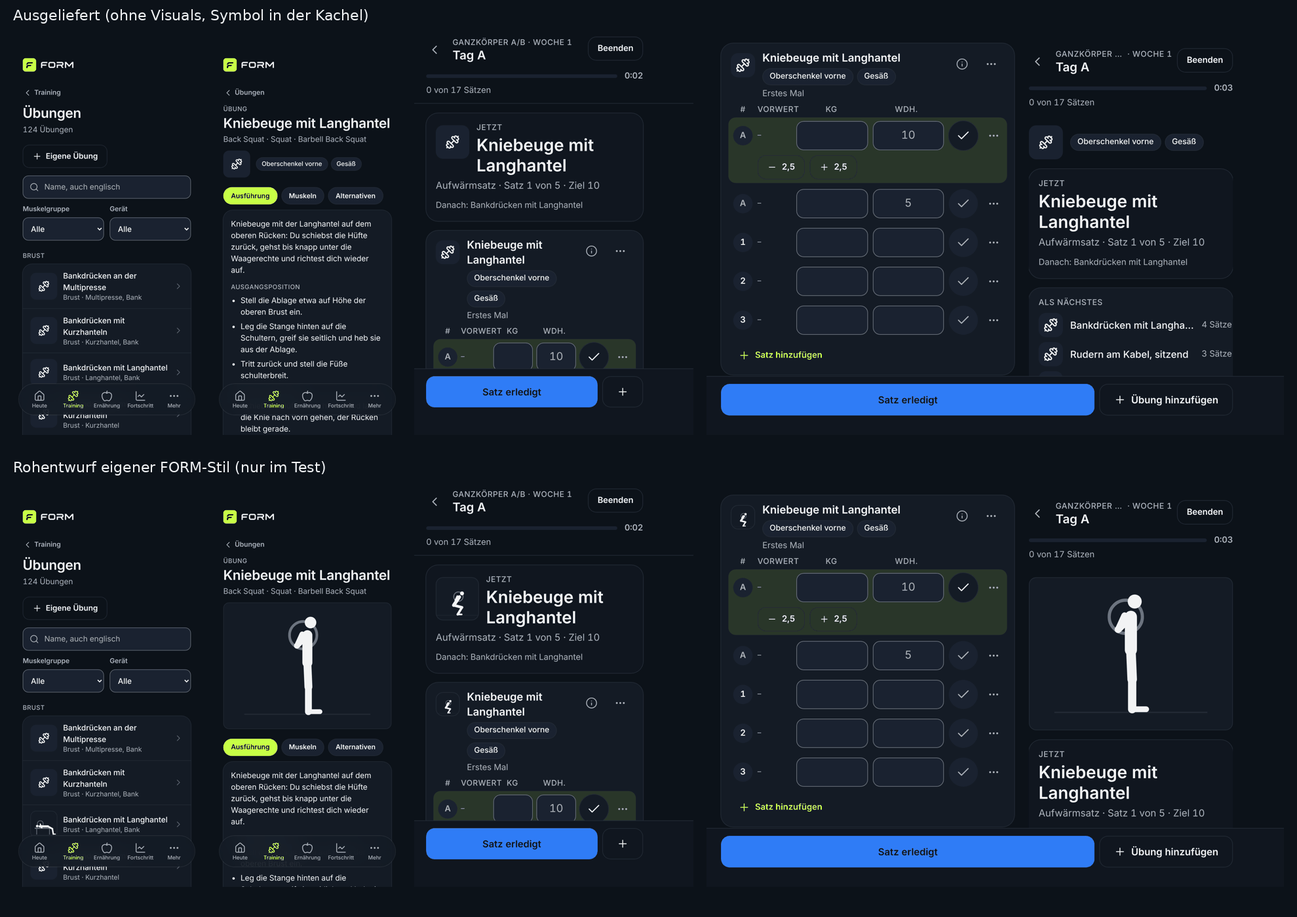
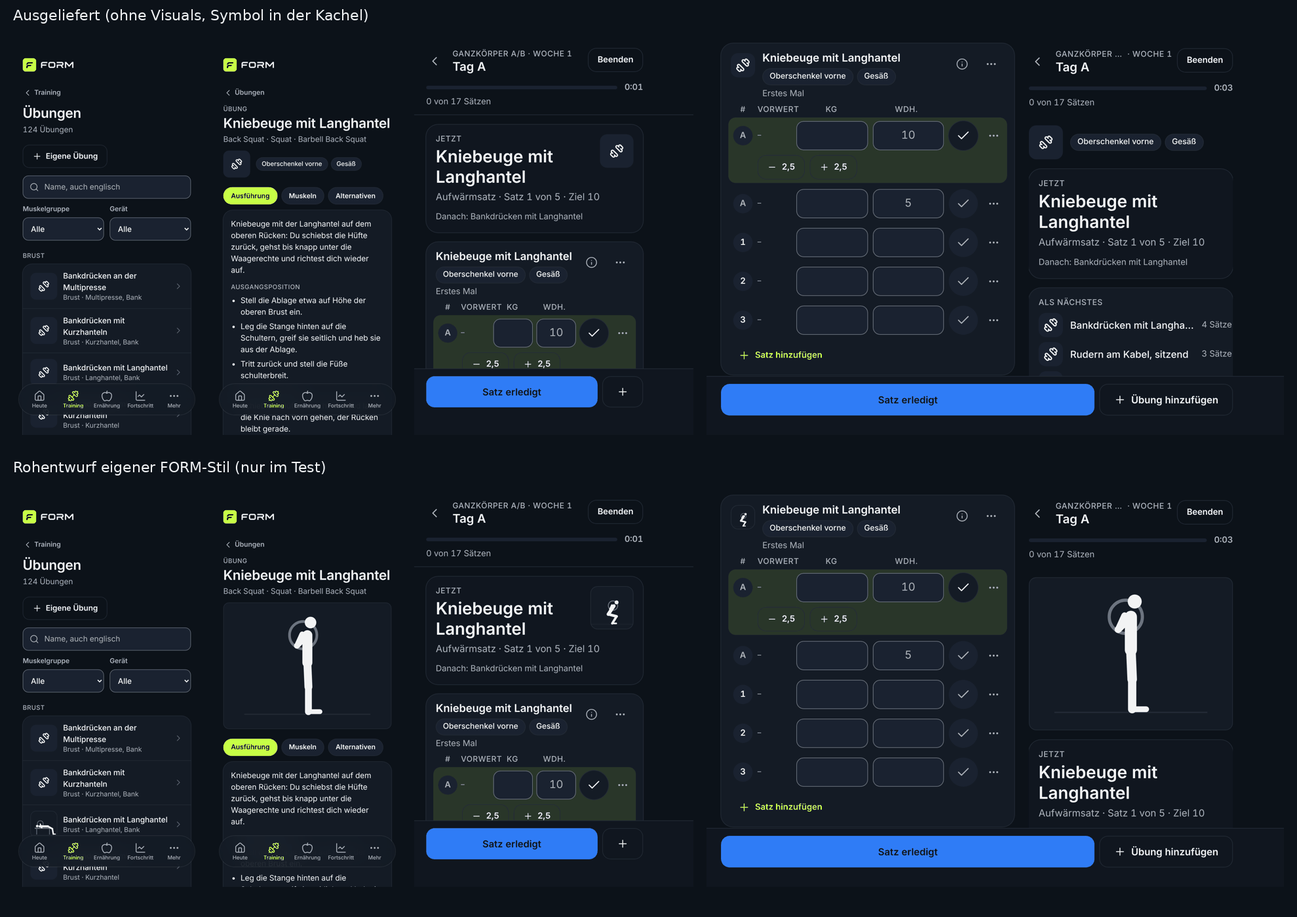
Übungen Phase 1: Nachtrag nach der CI (WebKit), erster Satz wieder über der Fußleiste (D-397)
- Vorschaubild in der Übungskarte des Players erst ab 30 rem Breite;
  schmal zeigt „Jetzt“ die aktuelle Übung kompakt, rechts umflossen
- Gemessen gegen main: erster Satz an derselben Stelle wie ohne Bilder
- Nachgeladene Teile wieder mit Vorladeliste (kein Abbruch beim Seitenwechsel
  in WebKit)
- uebungen.spec ohne Service Worker, prüft die Lage des ersten Satzes

Claude-Session: https://claude.ai/code/session_01K96Z9nqzbk2grJ3ncwBQUe

diff --git a/src/modules/training/ui/player/SessionPage.tsx b/src/modules/training/ui/player/SessionPage.tsx
@@ -498,25 +498,23 @@ function Player({ session, light }: { session: Session; light: boolean }) {
                 aria-label={tSession.now}
                 className="player-now stage mb-4 rounded-card p-card text-fg"
               >
-                <div className="flex items-start gap-3">
-                  {/* Schmal kompakt neben dem Namen (D-397); Antippen öffnet die Übungsinfo. */}
-                  <Demo
-                    exerciseId={currentExercise.exerciseId}
-                    name={currentExercise.nameSnapshot}
-                    muscles={currentEntry?.primaryMuscles ?? []}
-                    variant="compact"
-                    className="player-now-demo mt-1 shrink-0"
-                    onOpen={() => {
-                      setInfo(currentExercise);
-                    }}
-                  />
-                  <div className="min-w-0 flex-1">
-                    <p className="eyebrow text-muted">{tSession.now}</p>
-                    <p className="mt-1 text-2xl font-semibold [overflow-wrap:anywhere]">
-                      {currentExercise.nameSnapshot}
-                    </p>
-                  </div>
-                </div>
+                {/* Schmal kompakt rechts, der Text fließt darum (D-397): Das Bild nimmt dem Namen
+                    nur in den ersten Zeilen Breite, die Karte wird kaum höher, der Satz bleibt über
+                    der Fußleiste. Antippen öffnet die Übungsinfo. */}
+                <Demo
+                  exerciseId={currentExercise.exerciseId}
+                  name={currentExercise.nameSnapshot}
+                  muscles={currentEntry?.primaryMuscles ?? []}
+                  variant="compact"
+                  className="player-now-demo float-right mb-1 ml-3"
+                  onOpen={() => {
+                    setInfo(currentExercise);
+                  }}
+                />
+                <p className="eyebrow text-muted">{tSession.now}</p>
+                <p className="mt-1 text-2xl font-semibold [overflow-wrap:anywhere]">
+                  {currentExercise.nameSnapshot}
+                </p>
                 <p className="mt-1 text-muted">
                   {[
                     `${tSession.setTypeLabel[current.type]} · ${tSession.setOf(currentName.index, currentName.total)}`,
@@ -596,13 +594,15 @@ function Player({ session, light }: { session: Session; light: boolean }) {
                     className="rounded-card bg-surface p-3 shadow-card"
                   >
                     <div className="mb-2 flex items-start gap-1 px-1">
-                      {/* Vorschaubild links neben dem Namen (D-397). Antippen öffnet die Übungsinfo
-                          wie (i); für Tastatur und Screenreader genügt (i). */}
+                      {/* Vorschaubild links neben dem Namen (D-397), erst ab 30 rem Breite des
+                          Players (`player-card-thumb`): schmal zeigt „Jetzt“ die aktuelle Übung
+                          kompakt, und der erste Satz bleibt über der Fußleiste. Antippen öffnet
+                          die Übungsinfo wie (i); für Tastatur und Screenreader genügt (i). */}
                       <button
                         type="button"
                         tabIndex={-1}
                         aria-hidden="true"
-                        className="mt-1 mr-2 shrink-0 rounded-tile"
+                        className="player-card-thumb mt-1 mr-2 shrink-0 rounded-tile"
                         onClick={() => {
                           setInfo(exercise);
                         }}

diff --git a/e2e/uebungen.spec.ts b/e2e/uebungen.spec.ts
@@ -12,6 +12,10 @@ import { expect, openPage, test } from './fixtures';
 
 const PROTO = 'docs/screens/uebungen/prototyp';
 
+// Ohne Service Worker: Sonst käme die Liste der Visuals nach dem ersten Laden aus seinem Speicher
+// (leer) statt aus der Testliste; `page.route` sieht Anfragen des Service Workers in WebKit nicht.
+test.use({ serviceWorkers: 'block' });
+
 function visual(key: string) {
   return {
     preview: { src: `medien/${key}-vorschau.svg`, width: 240, height: 240 },
@@ -122,6 +126,14 @@ test('Player: Demonstration zugeklappt kompakt, aufgeklappt groß, gehört zur a
   );
   const done = page.getByRole('button', { name: 'Satz erledigt', exact: true });
   await expect(done).toBeInViewport();
+  // Schmal kein Vorschaubild in der Übungskarte: Der erste Satz steht über der Fußleiste.
+  await expect(page.locator('.player-card-thumb').first()).toBeHidden();
+  const firstSet = await page
+    .getByLabel(/^Gewicht in kg, /)
+    .first()
+    .boundingBox();
+  const footTop = (await page.locator('.player-foot').boundingBox())?.y ?? 0;
+  expect((firstSet?.y ?? 0) + (firstSet?.height ?? 0)).toBeLessThanOrEqual(footTop);
 
   // Aufgeklappt: groß in der rechten Spalte, kompakt in „Jetzt“ aus.
   await setDuoPose(page, 'auf');
@@ -131,6 +143,7 @@ test('Player: Demonstration zugeklappt kompakt, aufgeklappt groß, gehört zur a
     '/uebungen/medien/back_squat_barbell-start.svg',
   );
   await expect(now.locator('.player-now-demo')).toBeHidden();
+  await expect(page.locator('.player-card-thumb').first()).toBeVisible();
   const width = (await demo.boundingBox())?.width ?? 0;
   expect(width).toBeGreaterThan(250);
   await expect(done).toBeInViewport();

diff --git a/vite.config.ts b/vite.config.ts
@@ -89,10 +89,7 @@ export default defineConfig({
     // Teil dann gar nicht erst neu, und die App startete nicht. Chromium lädt vorgeladene Module
     // unter dem Service Worker ohnehin doppelt (E-16). Nachgeladene Bereiche laden weiter vor.
     modulePreload: {
-      // Visuals der Übungen (D-397): Die Modulschnittstelle lädt sie über `ui/visuals`; ohne
-      // Vorladeliste bleibt diese Liste aus der Startansicht, die Teile kommen beim Laden nach.
-      resolveDependencies: (file, deps, { hostType }) =>
-        hostType === 'html' || /\/visuals-[\w-]+\.js$/.test(file) ? [] : deps,
+      resolveDependencies: (_file, deps, { hostType }) => (hostType === 'html' ? [] : deps),
     },
   },
   define: {

diff --git a/src/modules/training/ui/player/player-layout.css b/src/modules/training/ui/player/player-layout.css
@@ -23,6 +23,16 @@
   display: none;
 }
 
+/* Vorschaubild in der Übungskarte (D-397) erst ab 30 rem Breite des Players: Schmal (Duo
+   zugeklappt, iPhone) nähme es dem Namen und den Muskel-Etiketten Breite, die Karte würde höher
+   und der erste Satz rutschte unter die Fußleiste (in WebKit gemessen). Die aktuelle Übung zeigt
+   dort „Jetzt“ kompakt. */
+@container player (max-width: 29.99rem) {
+  .player-card-thumb {
+    display: none;
+  }
+}
+
 /* Große Demonstration (D-397) nur in zwei Spalten; schmal steht sie kompakt in der Karte „Jetzt“,
    damit sie die Bedienung mit einer Hand nicht nach unten schiebt. */
 .player-demo {

diff --git a/src/modules/training/ui/exerciseVisuals.tsx b/src/modules/training/ui/exerciseVisuals.tsx
@@ -33,11 +33,7 @@ export function Thumb(props: ComponentProps<typeof ExerciseThumb>) {
 export function Demo(props: ComponentProps<typeof ExerciseDemo>) {
   return (
     <Suspense
-      fallback={
-        props.variant === 'compact' ? (
-          <Placeholder className={cn('player-now-demo mt-1', props.className)} />
-        ) : null
-      }
+      fallback={props.variant === 'compact' ? <Placeholder className={props.className} /> : null}
     >
       <ExerciseDemo {...props} />
     </Suspense>

diff --git a/docs/decisions.md b/docs/decisions.md
@@ -279,7 +279,7 @@ Stand: 18.10.2026 · Version 0.5 (M1 in Arbeit) · Vorgängerversion: `archive/v
 | D-394 | Startfläche ohne einmalige Messung (Auftrag `prompts/duo-korrekturen-4-FORM.md`, Bild `duo-startflaeche-wechselnd.png`): **Befund am Gerät:** Aufgeklappt quer, dieselbe Haltung, mehrere Kaltstarts: zweimal mittig, beim vierten Start das Logo bei 233 pt statt 475,5 pt. **Nachgemessen im Bild:** Beim vierten Start stehen Logo und Claim senkrecht wie bei den anderen Starts (Mitte des Logos 314,3 pt, 47 % von 669 pt), die Wortmarke ist gleich breit, waagrecht steht das Logo bei 231,8 pt; der Streifen rechts (84 pt) ist auf allen drei Bildern zu sehen, das Fenster war also 867 pt breit. Das passt nur zu einer Grafik von 466 × 669 pt: D-393 hatte beim Laden ein Fenster von 466 × 669 gemessen, Breite zugeklappt, Höhe aufgeklappt quer, und danach keine Größenänderung mehr bekommen. **Ursache:** einmalige Messung vor dem ersten Bild. iOS meldet beim Start des Duo manchmal noch Werte des zugeklappten Zustands und schickt kein `resize`, wenn sich das Fenster vor dem ersten Bild ändert (Vermutung, passt zum Bild und zur Gegenprobe). **Neu:** (1) Die Grafik ist per CSS das aktuelle Fenster plus die Streifen daneben (`width: calc(100% + links + rechts)`, `left: −links`, ebenso senkrecht); `public/startflaeche.js` setzt nur die Streifen als CSS-Variablen `--start-links`, `--start-rechts`, `--start-oben`, `--start-unten`. Gemessen wird in jedem Bild (`requestAnimationFrame`) und bei `resize`, `orientationchange`, `screen.orientation` und `visualViewport`, solange die Fläche da ist, höchstens 10 s; das Fenster kommt aus dem Layout (`clientWidth` × `clientHeight` des Wurzelelements). (2) Das Logo bleibt unsichtbar (`data-startlage="warten"`, CSS `visibility: hidden`), bis zwei aufeinanderfolgende Bilder gleiche Maße und Ausrichtung melden, die zu einer bekannten Haltung des Duo passen oder bei denen Fenster und Bildschirm gleich groß sind (auch gedreht, weil iOS `screen.*` hochkant meldet), höchstens 300 ms; eine CSS-Animation zeigt es nach 300 ms auch ohne Skript. (3) Widerspruch: Das Fenster ist hoch, die gemeldete Ausrichtung quer, oder umgekehrt (`screen.orientation`, sonst `window.orientation`), etwa 466 × 669 bei quer. Solche Werte setzen keine Streifen und lassen das Logo nicht erscheinen; nach 300 ms ohne stimmige Werte erscheint es mit den zuletzt stimmigen Streifen, ohne solche mittig im Fenster. (4) Gerätedaten: neu „Layout (clientWidth × clientHeight)“ und das Protokoll des Starts: die zuerst gemeldeten Maße (Fenster, Layout wenn anders, Bildschirm, Ausrichtung, Zeit), jede Änderung mit Zeit und wann das Logo erschien und warum (`window.__formStartMessung`, nur im Speicher der Seite). **Abweichungen, begründet:** Geräte, deren Bildschirm kein Display des Duo ist und plausibel zum Fenster passt (normales iPhone, dessen Fenster unter der Statusleiste beginnt, D-281), zeigen das Logo ebenfalls nach zwei gleichen Bildern, mittig im Fenster wie bisher; sonst stünde dort bei jedem Start 300 ms kein Logo. Nach dem Erscheinen setzt jede stimmige Änderung die Streifen sofort neu, ohne das Logo wieder zu verbergen. **Grenze:** Meldet iOS die Maße des zugeklappten Zustands zwei Bilder lang ohne Widerspruch, gelten sie als echtes Zuklappen; das lässt sich nicht unterscheiden. **Test:** `startLage.test.ts` (28 Tests): Rechnung mit den Messwerten, Widersprüche (466 × 669, 466 × 678 und 382 × 678 bei quer), Rückfälle, und Bild für Bild mit nachgestellter Seite: der vierte Start (466 × 669 beim Laden, 867 × 669 ab dem ersten Bild), zuerst zugeklappt ohne Widerspruch, Widerspruch über 100 ms, Widerspruch bleibt (Logo nach 300 ms), ohne Bilder (Zeitgeber), normales iPhone, Computer, Änderungen nach dem Erscheinen, Ende nach dem Entfernen der Fläche; `splash.test.ts` (19): CSS und Startbild gegen Fläche in fünf Lagen auf 1 pt; `deviceData.test.ts` (6); `e2e/start-surface.spec.ts` zwei neue Tests mit jedem Bild mitgeschnitten (falsche Werte nur beim Laden wie beim vierten Start, und 120 ms lang): in keinem Bild an anderer Stelle als 475,5 pt, am Ende pixelgleich mit dem Startbild; die sieben Lagen des Duo jetzt mit Ausrichtung über das Chrome-Protokoll und Logo nach zwei gleichen Bildern; `duo-geraetedaten.spec.ts` mit den neuen Zeilen. Gegenprobe am Stand D-393 mit denselben Werten beim Laden: Grafik 466 × 669, Mitte 233,0 pt, vom ersten Bild an sichtbar, wie beim vierten Start; mit D-394 das erste Bild ohne Logo, danach in jedem Bild 475,5 pt (bei 120 ms falschen Werten 9 Bilder ohne Logo) | Entschieden am 27.10.2026 | Wie vom Produktinhaber verlangt |
 | D-395 | Phase Übungen (Nachricht des Produktinhabers vom 27.10.2026; Auftrag `prompts/uebungen-FORM.md`, verbindliche Leitlinien `prompts/uebungen-leitlinien-FORM.md`, beide wortgleich abgelegt): Vorher geprüft: CI-Lauf 40475256640 auf `main` (`25a3553`, Merge von PR #52), Stand und Ergebnis im Bericht `form-uebungen-report.md` Abschnitt 1. Branch `form-uebungen` von `main` mit Entwurfs-PR nach `main` für die CI. `CLAUDE.md`: aktuelle Phase `form-uebungen` mit Verweis auf Auftrag und Leitlinien. Nachtrag Duo: Gerätetest am iPhone Duo bestanden (Startfläche bei zehn Kaltstarts aufgeklappt hoch und quer mittig, übrige Punkte in Ordnung), eingetragen in `testing.md`, `form-duo-report.md` Abschnitt 15 und in der Beschreibung von PR #52. Reihenfolge laut Auftrag: zuerst Platz im Startbündel (Ziel höchstens 238 KB), dann Phase 1 (Bestandsaufnahme, Gerüst, Ausführungstexte, Quellenvorschlag) und Stopp; Visuals in großer Zahl erst nach der Entscheidung des Produktinhabers (Phase 2) | Entschieden am 27.10.2026 (Nachricht des Produktinhabers) | Ein Branch je Phase (D-342) |
 | D-396 | Platz in der Startansicht (Auftrag `prompts/uebungen-FORM.md` Abschnitt 0.3: höchstens 238 KB, keine neue Abhängigkeit, keine Funktion entfernt): Gemessen mit Quellkarten, was die 244,7 KB ausmacht. **Neu:** (1) Die Skripte im Kopf (`theme-init.js`, `startflaeche.js`) gingen unverändert samt Kommentaren aus `public/` raus (4,9 und 1,6 KB). Ein kleines Vite-Plugin (`slimStartView` in `vite.config.ts`) verkleinert sie beim Bauen mit dem Minifier, den Vite mitbringt, bevor der Service Worker ihre Prüfsummen rechnet (1,7 und 0,8 KB); die Quellen bleiben lesbar, die Tests lesen weiter die Quellen. `index.html` verliert beim Bauen ihre Kommentare (5,8 → 5,4 KB). Die beiden Skripte stehen nicht mehr in `includeAssets`: Von dort kamen sie ein zweites Mal mit der Prüfsumme der unverkleinerten Datei in die Liste des Service Workers, was dessen Installation hätte scheitern lassen. `tools/check-precache.mjs` prüft deshalb neu, dass jede Prüfsumme zur Datei im Build passt. (2) Glas-Linse und Kreis der Tab-Leiste (`tabLens.ts`, `tabMinimize.ts`, zusammen rund 3,5 KB) werden nachgeladen, sobald die Leiste erscheint; Tippen geht sofort, Ziehen und Schrumpfen nach wenigen Millisekunden (vom Service Worker vorab gespeichert, auch offline). Bis dahin trägt die Leiste `aria-busy`, die Tests warten wie bei jeder Seite darauf. **Ergebnis:** 237,0 KB von 250 KB. Nicht genutzt: Zod zieht seinen JSON-Schema-Export mit (rund 6 KB), der sich nur mit einem Umbau aller Schemas auf `zod/mini` vermeiden ließe; das wäre zu viel Risiko für diesen Schritt. Alles, was diese Phase hinzufügt, wird nachgeladen | Entschieden am 27.10.2026 | Auftrag des Produktinhabers; Platz für Visuals und Texte, ohne Funktionen zu verlieren |
-| D-397 | Bestandsaufnahme und Gerüst für die Visuals der Übungen (Phase Übungen, Phase 1 Punkte 1 und 2; Leitlinien Kapitel 2, 3, 5, 8, 9): **Bestand:** 124 Basisübungen (105 aus Q-05, 19 aus D-248), keine Bilder oder Animationen im Projekt; Tabelle mit Schlüssel und ID, deutschem und englischem Namen, Gerät, Muskeln, Varianten, Visual und Ausführung in `uebungen-bestand.md`, erzeugt von `tools/exercise_inventory.py`, geprüft in `pnpm check:docs`. **Datenstruktur:** `public/uebungen/medien.json` (Version 1, in Phase 1 leer): je Schlüssel der Basisübung ein Vorschaubild, eine Demonstration (`animation` mit ruhendem Bild, `video` mit Standbild, `phases` mit Ausgangs- und Endposition oder `image`), Alternativtext, Quelle mit Lizenz, Namensnennung und kommerzieller Nutzung; Dateien nur unter `uebungen/medien/`. Zugeordnet über die ID aus dem Schlüssel (D-240), nie über den Namen; ein Schlüssel ohne Basisübung ordnet nichts zu; eigene Übungen haben keine Visuals. Die Liste liegt in `public/`, damit Phase 2 Dateien ergänzen kann, ohne Code zu ändern; der Service Worker speichert sie vorab, die Bilder selbst nicht, sondern beim ersten Anzeigen (`runtimeCaching`, CacheFirst, Cache `uebungen-medien`). **Anzeige:** Vorschaubild 56 px links neben dem Namen in Übungsbibliothek, Übungsauswahl, Alternativen der Übungsdetails, Vorlagen, Trainingstag bearbeiten; 40 px in den Übungskarten des Players, in „Als Nächstes“ und in der Zusammenfassung. Im Player die Demonstration der aktuellen Übung: aufgeklappt (ab 48 rem Breite des Players) groß im vorbereiteten Bereich „demo“ der rechten Spalte (D-380), schmal (zugeklappt, iPhone) kompakt in der Karte „Jetzt“; je Übungs-ID neu aufgebaut, also nie kurz das Bild der vorigen Übung; unabhängig von Satz und Pause; aktuelle und nächste Übung werden vorgeladen. Antippen öffnet die Übungsinfo mit Demonstration, Kurzfassung der Ausführung und „Alle Angaben zur Übung“. Übungsdetails: Demonstration oben, neuer erster Reiter „Ausführung“. **Rückfall:** Fehlt das Visual, lädt es nicht oder fehlt die Liste (offline, Fehler), steht das bisherige Symbol der App (Hantel wie „Training“) in der Kachel, groß mit den Muskel-Etiketten; kein leerer Kasten, nichts, das wie eine Demonstration aussieht. **Barrierefreiheit:** Vorschaubilder neben dem Namen mit leerem Alternativtext, Demonstrationen mit Alternativtext; weniger Bewegung: Animation als ruhendes Bild, Video ohne Autoplay mit Steuerung, zwei Phasen nebeneinander mit Beschriftung; Video immer stumm. **Startansicht:** Komponenten, Schemas, Texte und Daten nachgeladen; die Modulschnittstelle exportiert sie nur als `lazy` über einen gemeinsamen Einstieg ohne Vorladeliste (`ui/visuals.ts`, `resolveDependencies`), das Symbol als eigene Kopie aus lucide (ISC); Prüf-Muster statt `z.url()` halten den gemeinsamen Zod-Teil gleich. 237,7 KB von 250 KB; die 0,7 KB über D-396 sind drei Lade-Einträge in der Schnittstelle und die neuen Tailwind-Klassen im gemeinsamen CSS | Entschieden am 27.10.2026 | Auftrag des Produktinhabers; eine Liste in `public/` statt einer neuen Tabelle braucht keine Datenbank- oder Server-Migration und hält Bilder aus dem Startbündel |
+| D-397 | Bestandsaufnahme und Gerüst für die Visuals der Übungen (Phase Übungen, Phase 1 Punkte 1 und 2; Leitlinien Kapitel 2, 3, 5, 8, 9): **Bestand:** 124 Basisübungen (105 aus Q-05, 19 aus D-248), keine Bilder oder Animationen im Projekt; Tabelle mit Schlüssel und ID, deutschem und englischem Namen, Gerät, Muskeln, Varianten, Visual und Ausführung in `uebungen-bestand.md`, erzeugt von `tools/exercise_inventory.py`, geprüft in `pnpm check:docs`. **Datenstruktur:** `public/uebungen/medien.json` (Version 1, in Phase 1 leer): je Schlüssel der Basisübung ein Vorschaubild, eine Demonstration (`animation` mit ruhendem Bild, `video` mit Standbild, `phases` mit Ausgangs- und Endposition oder `image`), Alternativtext, Quelle mit Lizenz, Namensnennung und kommerzieller Nutzung; Dateien nur unter `uebungen/medien/`. Zugeordnet über die ID aus dem Schlüssel (D-240), nie über den Namen; ein Schlüssel ohne Basisübung ordnet nichts zu; eigene Übungen haben keine Visuals. Die Liste liegt in `public/`, damit Phase 2 Dateien ergänzen kann, ohne Code zu ändern; der Service Worker speichert sie vorab, die Bilder selbst nicht, sondern beim ersten Anzeigen (`runtimeCaching`, CacheFirst, Cache `uebungen-medien`). **Anzeige:** Vorschaubild 56 px links neben dem Namen in Übungsbibliothek, Übungsauswahl, Alternativen der Übungsdetails, Vorlagen, Trainingstag bearbeiten; 40 px in den Übungskarten des Players, in „Als Nächstes“ und in der Zusammenfassung. Im Player die Demonstration der aktuellen Übung: aufgeklappt (ab 48 rem Breite des Players) groß im vorbereiteten Bereich „demo“ der rechten Spalte (D-380), schmal (zugeklappt, iPhone) kompakt in der Karte „Jetzt“; je Übungs-ID neu aufgebaut, also nie kurz das Bild der vorigen Übung; unabhängig von Satz und Pause; aktuelle und nächste Übung werden vorgeladen. Antippen öffnet die Übungsinfo mit Demonstration, Kurzfassung der Ausführung und „Alle Angaben zur Übung“. Übungsdetails: Demonstration oben, neuer erster Reiter „Ausführung“. **Rückfall:** Fehlt das Visual, lädt es nicht oder fehlt die Liste (offline, Fehler), steht das bisherige Symbol der App (Hantel wie „Training“) in der Kachel, groß mit den Muskel-Etiketten; kein leerer Kasten, nichts, das wie eine Demonstration aussieht. **Barrierefreiheit:** Vorschaubilder neben dem Namen mit leerem Alternativtext, Demonstrationen mit Alternativtext; weniger Bewegung: Animation als ruhendes Bild, Video ohne Autoplay mit Steuerung, zwei Phasen nebeneinander mit Beschriftung; Video immer stumm. **Startansicht:** Komponenten, Schemas, Texte und Daten nachgeladen; die Modulschnittstelle exportiert sie nur als `lazy` über einen gemeinsamen Einstieg ohne Vorladeliste (`ui/visuals.ts`, `resolveDependencies`), das Symbol als eigene Kopie aus lucide (ISC); Prüf-Muster statt `z.url()` halten den gemeinsamen Zod-Teil gleich. 237,7 KB von 250 KB; die 0,7 KB über D-396 sind drei Lade-Einträge in der Schnittstelle und die neuen Tailwind-Klassen im gemeinsamen CSS **Nachtrag nach der CI (WebKit, Lauf 40497208432):** Zugeklappt lag in WebKit das Gewichtsfeld des ersten Satzes bei 590 px statt 471 px wie in Chromium, der Tipp traf „Satz erledigt“: Das Vorschaubild links in der Übungskarte nahm Namen und Muskel-Etiketten Breite, mit der Schrift von WebKit brachen sie öfter um. Neu: In der Übungskarte steht das Vorschaubild erst ab 30 rem Breite des Players (`player-card-thumb`); schmal zeigt „Jetzt“ die aktuelle Übung kompakt, rechts, und der Text fließt darum. Gemessen in Chromium gegen `main`: erster Satz bei 466 × 678 auf 471 px, bei 382 × 678 und 390 × 664 auf 477 px, genau wie ohne Vorschaubilder. Die nachgeladenen Teile haben wieder ihre Vorladeliste (die Ausnahme in `resolveDependencies` entfällt): Ohne sie luden sie in WebKit nacheinander, und ein Seitenwechsel mitten im Laden meldete „Importing a module script failed“. Startansicht unverändert 237,7 KB | Entschieden am 27.10.2026 | Auftrag des Produktinhabers; eine Liste in `public/` statt einer neuen Tabelle braucht keine Datenbank- oder Server-Migration und hält Bilder aus dem Startbündel |
 | D-398 | Ausführungstexte je Übung (Phase Übungen, Phase 1 Punkt 3; Leitlinien Kapitel 4): `src/modules/exercises/data/exercise-guides.v1.json`, nachgeladen (rund 26 KB komprimiert): kurze Beschreibung, Ausgangsposition, Schritt für Schritt, Technik (Bewegungsumfang, Tempo), häufige Fehler, Sicherheit, 1 bis 3 Quellen mit Adresse und Abrufdatum, dazu `sourceNote`, wo die Quelle eine nahe Variante beschreibt oder ein Punkt abgeleitet ist (46 Übungen). **Quellen:** nur Fachseiten ExRx.net und ACE Exercise Library, in Einzelfällen NASM; recherchiert über die Websuche, weil das Netz der Sitzung die Seiten selbst nicht öffnet; eigene Worte, keine Übersetzung ganzer Absätze. **Stand:** 111 von 124 fertig, 13 offen mit Grund (4 ohne passende Quelle: Heel Taps, Pull-Throughs am Kabel, Trizepsdrücken über Kreuz, Rudern mit zwei Kurzhanteln im Stand; 9 noch nicht recherchiert, weil das Kontingent der Websuche dieser Sitzung aufgebraucht war). Eine offene Übung zeigt „Für diese Übung gibt es noch keine belegte Beschreibung der Ausführung.“, nie einen Platzhaltertext. **Sprache:** Du-Form, sachlich, ohne Versprechen, ohne medizinische Empfehlung; unter jedem Text „Allgemeine Hinweise zur Technik, keine persönliche oder medizinische Empfehlung. Wenn etwas schmerzt, hör auf und lass dich beraten.“ Geprüft in `media.test.ts`: jede Basisübung genau einmal (Text oder offen), nur https und zugelassene Fachseiten, keine zwei gleichen Beschreibungen, keine Ausrufezeichen, keine Emojis, kein „man“ oder „Sie“, keine gestrichenen Wörter der Leitplanken. Eigens ausgewählte „einfachere Alternativen“ gibt es noch nicht; der Reiter „Alternativen“ zeigt wie bisher passende Übungen nach Muskeln und Gerät (AK-TRN-09). Beantwortet Planpunkt 61 für die Basisübungen | Entschieden am 27.10.2026 | Auftrag des Produktinhabers: nur aus verlässlichen Quellen, mit dokumentierter Quelle; was nicht belegt ist, bleibt offen |
 | D-399 | Quellenvorschlag für die Visuals (Phase Übungen, Phase 1 Punkt 4; Leitlinien Kapitel 6 und 7): Vergleich in `uebungen-quellen.md` (Abdeckung per Stichprobe, Stil, Format, Lizenz, kommerzielle Nutzung, Kosten, Aufwand). **Empfehlung:** eigener FORM-Stil als Figur im Code (SVG, zwei Phasen im Wechsel, Farben aus den Tokens), Rohentwurf für zwei Übungen in `docs/screens/uebungen/prototyp/`, nur in den Bildern des Berichts, nicht in der App. Zweitwahl Everkinetic (CC BY-SA 4.0, umgefärbt, mit Namensnennung). Ausgeschlossen: free-exercise-db (Herkunft der Fotos ungeklärt, fremdes Logo), ExerciseDB/AscendAPI (Speichern verboten, kein Offline), MuscleWiki. Nicht geprüft wegen des aufgebrauchten Kontingents der Websuche: MuscleWiki, Gym Visual, WorkoutLabs, Stock-Anbieter, LottieFiles, Mixamo, KI-Generatoren. Keine Visuals beschafft, keine Lizenz abgeschlossen; Entscheidung beim Produktinhaber (Q-24) | Vorschlag vom 27.10.2026 | Auftrag des Produktinhabers |
 | D-247 | Premium-Player (AP D2, ersetzt AP 1.5): Bühne „Jetzt“ mit Übung, Satz x von n, Ziel, Vorwert und nächster Übung; Pause als Bühne im klebenden Kopf mit Restzeit, nächstem Satz, ±15 s und Überspringen, Vollansicht als Portal; Ton nur, wenn das Pausenende während der Anzeige erreicht wird (letzter Stand höchstens 1 s davor), nie nachträglich; Wake Lock während der Einheit mit Statusspeicher für die Einstellungen; „Beenden“ im Kopf, „Übung entfernen“ als Symbol | Entschieden in AP D2 | Der Master-Prompt verlangt, dass Programm, Übung, Satz, Vorwert, Pause, Fortschritt und nächste Aktion auf einen Blick sichtbar sind. Die Pause im Kopf bleibt beim Scrollen sichtbar, ohne eine zweite Leiste unten zu stapeln. Ein nachträglicher Ton nach der Rückkehr aus dem Hintergrund wäre irreführend (D-215). Das Portal ist nötig, weil der Weichzeichner der Kopfzeile sonst den Bezugsrahmen für `fixed` bildet |

diff --git a/form-uebungen-report.md b/form-uebungen-report.md
@@ -40,8 +40,8 @@ Volle Tabelle mit allen 124 Übungen (Schlüssel und ID, deutscher und englische
 ## 3. Gerüst
 
 - **Datenstruktur:** `public/uebungen/medien.json`, je Schlüssel Vorschaubild, Demonstration (Animation mit ruhendem Bild, stummes Video mit Standbild, zwei Phasen oder ein Bild), Alternativtext und Quelle mit Lizenz und Namensnennung. In Phase 1 leer. Der Service Worker speichert die Liste vorab, die Bilder selbst erst beim ersten Anzeigen.
-- **Listen:** Vorschaubild links neben dem Namen in Übungsbibliothek und Suche, Übungsauswahl (Freies Training, Ersetzen), Alternativen, Programmvorlagen, Trainingstag bearbeiten; kleiner in den Übungskarten des Players, in „Als Nächstes“ und in der Zusammenfassung.
-- **Player:** aufgeklappt die große Demonstration im vorbereiteten Platz der rechten Spalte, zugeklappt und am iPhone kompakt in der Karte „Jetzt“. „Satz erledigt“ bleibt unten erreichbar. Die Demonstration gehört zur aktuellen Übung und wird je Übung neu aufgebaut; aktuelle und nächste Übung werden vorgeladen.
+- **Listen:** Vorschaubild links neben dem Namen in Übungsbibliothek und Suche, Übungsauswahl (Freies Training, Ersetzen), Alternativen, Programmvorlagen, Trainingstag bearbeiten; kleiner in „Als Nächstes“, in der Zusammenfassung und in den Übungskarten des Players. Dort erst ab 30 rem Breite: Schmal (Duo zugeklappt, iPhone) zeigt „Jetzt“ die aktuelle Übung, und der erste Satz bleibt über der Fußleiste.
+- **Player:** aufgeklappt die große Demonstration im vorbereiteten Platz der rechten Spalte, zugeklappt und am iPhone kompakt rechts in der Karte „Jetzt“, der Text fließt darum. „Satz erledigt“ bleibt unten erreichbar. Die Demonstration gehört zur aktuellen Übung und wird je Übung neu aufgebaut; aktuelle und nächste Übung werden vorgeladen.
 - **Verknüpfung:** Antippen der Demonstration öffnet die Übungsinfo mit Kurzfassung der Ausführung und „Alle Angaben zur Übung“ (das Training läuft weiter).
 - **Übungsdetails:** Demonstration oben, neuer erster Reiter „Ausführung“.
 - **Solange ein Visual fehlt:** das bisherige Symbol (Hantel) in der Kachel, groß mit den Muskel-Etiketten. Kein leerer Kasten, nichts, das wie eine Demonstration aussieht. Ebenso, wenn eine Datei nicht lädt oder die Liste fehlt.
@@ -94,7 +94,7 @@ Ergebnisse wörtlich in `docs/testing.md`, Abschnitte „Platz in der Startansic
 
 ## 7. Beobachtungen und Grenzen
 
-- Zugeklappt (466 pt mit Systemrand) rutschen in der Übungskarte die Muskel-Etiketten der Kniebeuge untereinander, weil das Vorschaubild 40 px Breite braucht. Alles bleibt lesbar und bedienbar.
+- Nach der CI behoben: In WebKit schob das Vorschaubild in der Übungskarte zugeklappt den ersten Satz unter die Fußleiste. Jetzt steht er wie ohne Vorschaubilder (gemessen gegen `main`).
 - Die Texte stützen sich auf Zusammenfassungen der Websuche, nicht auf die geöffnete Seite. Die Adressen stehen dabei; ein Abgleich mit der Seite selbst ist in einer Umgebung mit offenem Netz möglich.
 - Die Regel des Service Workers für Bilder (bei Bedarf speichern) ist gesetzt, aber erst mit echten Dateien in Phase 2 geprüft.
 

diff --git a/docs/testing.md b/docs/testing.md
@@ -2172,3 +2172,15 @@ Bestandsaufnahme, Gerüst für Visuals mit Rückfall auf das Symbol, Ausführung
 | WebKit | läuft in der CI |
 | Nachtrag nach der CI (Lauf 40492306595, Job „Lint, Typen, Unit-Tests“) | `custom-exercises-ui.test.tsx` „legt eine Übung an …“ scheiterte mit „Unable to find role="heading" and name "Brustpresse Technogym"“ nach 10 s; der DOM-Auszug zeigt noch die Bibliothek. Ursache: Die Liste hat jetzt 124 Symbol-Kacheln mit je 5 SVG-Pfaden, Rollen-Abfragen in jsdom mit Coverage dauern damit länger. Neu: Symbol als ein Pfad (gleiches Bild, 496 Elemente weniger in der Liste), Wartezeit dieses Schritts 20 s (Test 40 s). Danach `pnpm test:coverage` 134 Dateien, 1203 Tests bestanden; `uebungen.spec.ts` und `custom-exercises.spec.ts` bestanden |
 
+### Phase Übungen, Nachtrag nach der CI (WebKit) · 27.10.2026, Cloud-Umgebung (Node 22.22, Chromium 1243)
+
+| Nachweis | Ergebnis |
+|---|---|
+| CI Lauf 40493458163 (`2510894`), E2E WebKit | 390 bestanden, 1 fehlgeschlagen, 2 erst im zweiten Anlauf: `duo-tastatur.spec.ts` „zugeklappt: Eingaben im Training“ (Gewichtsfeld ohne Fokus), `duo-tabbar.spec.ts` (Linse), `program-list.spec.ts` („Importing a module script failed“) |
+| Diagnose (`d8f652b`), CI Lauf 40497208432 | Meldung: „Getippt bei 184, 614 auf <button …>; Feld jetzt bei 590, vorher 590; Fokus auf <button …>“: Der Tipp traf den Knopf der Fußleiste, das Feld lag tiefer als in Chromium (471). Außerdem `uebungen.spec.ts` Player rot: In WebKit sieht `page.route` die Anfragen des Service Workers nicht, die Liste kam leer aus seinem Speicher |
+| Messung in Chromium gegen `main` (gebaut in eigenem Arbeitsverzeichnis), erster Satz oben | `main`: 471 / 477 / 477 px (466 × 678, 382 × 678, 390 × 664). Mit Vorschaubild als erstem Element der Titelzeile (verworfener Versuch): 496 / 521 / 521. Mit `player-card-thumb` erst ab 30 rem: 471 / 477 / 477 |
+| `e2e/uebungen.spec.ts` (ohne Service Worker, neu: schmal kein Vorschaubild in der Karte, erster Satz über der Fußleiste; aufgeklappt sichtbar), dazu `duo-tastatur`, `player`, `duo-player`, `program-list`, `session` (Chromium) | 49 bestanden |
+| `vitest run src/modules/training src/modules/exercises` | 244 Tests bestanden |
+| `pnpm build`, `pnpm check:bundle` | 237,7 KB von 250 KB |
+| Bilder | `node tools/uebungen-screens.mjs` neu, 14 Ansichten und Übersicht |
+
